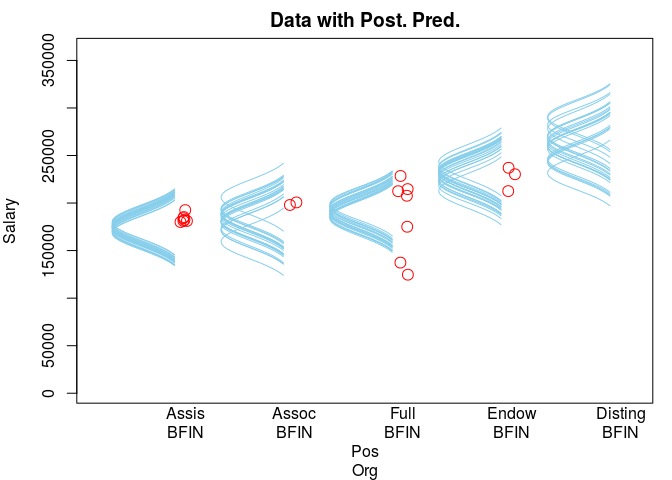
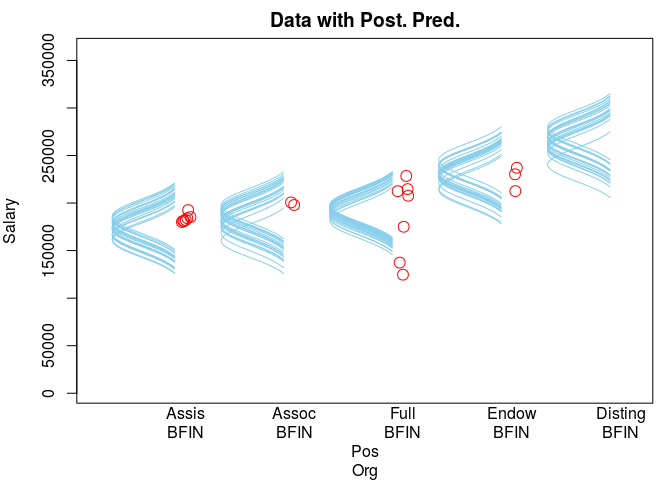
up

diff --git a/01-book-Kruschke-DBDA/exercises/20-chapter/ex-20.md b/01-book-Kruschke-DBDA/exercises/20-chapter/ex-20.md
@@ -129,6 +129,69 @@ plotMCMC(mod, out1, myDataFrame, yName, x1Name, x2Name, x2levels = "BFIN")
 
 ![](figures-20/fig_20_3-1.png)<!-- -->
 
+#### Replicate the code
+
+
+```r
+mat <- as.matrix(out1, chains = TRUE)
+par <- varnames(out1) 
+```
+
+
+```r
+lvl2 <- "BFIN"
+
+l1 <- levels(myDataFrame[, x1Name])
+l2 <- levels(myDataFrame[, x2Name])
+
+ch <- round(seq(1, nrow(mat), length = 10))
+
+p <- ggplot(myDataFrame, aes(as.numeric(Pos), Salary))
+
+for(i in 1:length(l1)) {
+  for(j in ch) {
+    l1idx <- i
+    l2idx <- which(l2 == lvl2)
+    v <- paste0("m[", l1idx, ",", l2idx, "]")
+
+    m <- mat[j, v]
+    s <- mat[j, "ySigma"]
+    
+    normlim <- qnorm(c(0.025, 0.975))
+    ycomb <- seq(m + normlim[1] * s, m + normlim[2] * s, length = 201)
+
+    ynorm <- dnorm(ycomb, mean = m, sd = s)
+    ynorm <- 0.67 * ynorm / max(ynorm) # scale
+    
+    pf <- data.frame(xp = l1idx - ynorm, yp = ycomb)
+    p <- p + geom_path(data = pf, aes(xp, yp), color = "grey50")
+  }
+  
+  # add points
+  yp <- subset(myDataFrame, Pos == l1[i] & Org == lvl2, Salary, drop = TRUE)
+  if(length(yp) > 0) {
+    xp <- i + runif(length(yp), -0.05, 0.05)
+    pf <- data.frame(xp = xp, yp = yp)
+      
+    p <- p + geom_point(data = pf, aes(xp, yp), shape = 1, size = 2)
+  }  
+}
+
+yr <- range(myDataFrame[, yName])
+yr2 <-c(yr[1] - 0.2 * (yr[2] - yr[1]), yr[2] + 0.2 * (yr[2] - yr[1]))
+p <- p + ylim(yr2)
+
+p <- p + scale_x_continuous(breaks = 1:length(l1), labels = l1)
+p <- p + labs(title = lvl2, x = "Position")
+```
+
+
+```r
+p
+```
+
+![](figures-20/plot_BFIN-1.png)<!-- -->
+      
 ### Figure 20.4
 
 
@@ -152,4 +215,140 @@ plotMCMC(mod, out1, myDataFrame, yName, x1Name, x2Name, x2contrasts = x2c)
 ```
 
 ![](figures-20/fig_20_4-3.png)<!-- -->
+
+#### Replicating the code
+
+See Section 19.3.3 Contrasts of the book (p. 565).
+
+
+```r
+x1 <- as.numeric(as.factor(myDataFrame[,x1Name])) 
+x1levels <- levels(as.factor(myDataFrame[,x1Name]))
+x2 <- as.numeric(as.factor(myDataFrame[,x2Name]))
+x2levels <- levels(as.factor(myDataFrame[,x2Name]))
+
+l1 <- levels(myDataFrame[, x1Name])
+l2 <- levels(myDataFrame[, x2Name])
+     
+contr <- list("BFIN", c("PSY", "CHEM", "ENG"), compVal = 0.0, ROPE = c(-1000, 1000))
+
+x2right <- contr[[1]]
+v <- paste0("b2[", which(l2 %in% x2right), "]")
+
+if(length(v) == 1) {
+  right <- mat[, v]
+} else {
+  right <- rowSums(mat[, v]) / length(v)
+}
+
+x2left <- contr[[2]]
+
+v <- paste0("b2[", which(l2 %in% x2left), "]")
+if(length(v) == 1) {
+  left <- mat[, v]
+} else {
+  left <- rowSums(mat[, v]) / length(v)
+}
+
+postContrast <- right - left
+```
+
+
+```r
+plotPost(postContrast, xlab = "Difference", 
+  main = paste0(paste(contr[[1]], collapse = "."), "\nvs\n", paste(contr[[2]], collapse = ".")),
+  compVal = contr$compVal, ROPE = contr$ROPE)
+```
+
+![](figures-20/rep2_plot-1.png)<!-- -->
+
+```
+                ESS     mean   median     mode hdiMass   hdiLow  hdiHigh
+Difference 13028.15 107143.6 107186.5 107410.4    0.95 97385.27 117367.1
+           compVal pGtCompVal ROPElow ROPEhigh pLtROPE pInROPE pGtROPE
+Difference       0          1   -1000     1000       0       0       1
+```
+
+### Figure 20.5
+
+
+```r
+l1 <- levels(myDataFrame[, x1Name])
+l2 <- levels(myDataFrame[, x2Name])
+
+x11 <- "Full"
+x12 <- "Assis"
+x2 <- "PSY"
+
+x11idx <- which(l1 == x11)
+x12idx <- which(l1 == x12)
+x2idx <- which(l2 == x2)
+    
+v11 <- paste0("m[", x11idx, ",", x2idx, "]")
+v12 <- paste0("m[", x12idx, ",", x2idx, "]")
+
+postDiff <- mat[, v11] - mat[, v12]
+```
+
+
+```r
+plotPost(postDiff, xlab = "Difference", 
+  main = paste0(x11, " - ", x12, " @ ", x2),
+  compVal = 0, ROPE = c(-1000, 1000))
+```
+
+![](figures-20/fig_20_5_left_plot-1.png)<!-- -->
+
+```
+             ESS     mean   median     mode hdiMass   hdiLow  hdiHigh
+Difference 15000 31360.16 31403.86 31437.66    0.95 16781.77 45188.49
+           compVal pGtCompVal ROPElow ROPEhigh pLtROPE      pInROPE
+Difference       0  0.9999333   -1000     1000       0 6.666667e-05
+             pGtROPE
+Difference 0.9999333
+```
+
+
+```r
+l1 <- levels(myDataFrame[, x1Name])
+l2 <- levels(myDataFrame[, x2Name])
+
+x11 <- "Full"
+x12 <- "Assis"
+x2 <- "CHEM"
+
+x11idx <- which(l1 == x11)
+x12idx <- which(l1 == x12)
+x2idx <- which(l2 == x2)
+    
+v11 <- paste0("m[", x11idx, ",", x2idx, "]")
+v12 <- paste0("m[", x12idx, ",", x2idx, "]")
+
+postDiff <- mat[, v11] - mat[, v12]
+```
+
+
+```r
+plotPost(postDiff, xlab = "Difference", 
+  main = paste0(x11, " - ", x12, " @ ", x2),
+  compVal = 0, ROPE = c(-1000, 1000))
+```
+
+![](figures-20/fig_20_5_left2_plot-1.png)<!-- -->
+
+```
+                ESS     mean   median     mode hdiMass   hdiLow  hdiHigh
+Difference 11988.86 68846.51 68852.76 69621.95    0.95 54411.11 82777.08
+           compVal pGtCompVal ROPElow ROPEhigh pLtROPE pInROPE pGtROPE
+Difference       0          1   -1000     1000       0       0       1
+```
+
+```r
+x12c <- list(list(list("Full", "Assis"), list("CHEM", "PSY"), compVal = 0.0, ROPE = c(-1000, 1000)))
+plotMCMC(mod, out1, myDataFrame, yName, x1Name, x2Name, x1x2contrasts = x12c)
+```
+
+![](figures-20/fig_20_5-1.png)<!-- -->
+
+
 
